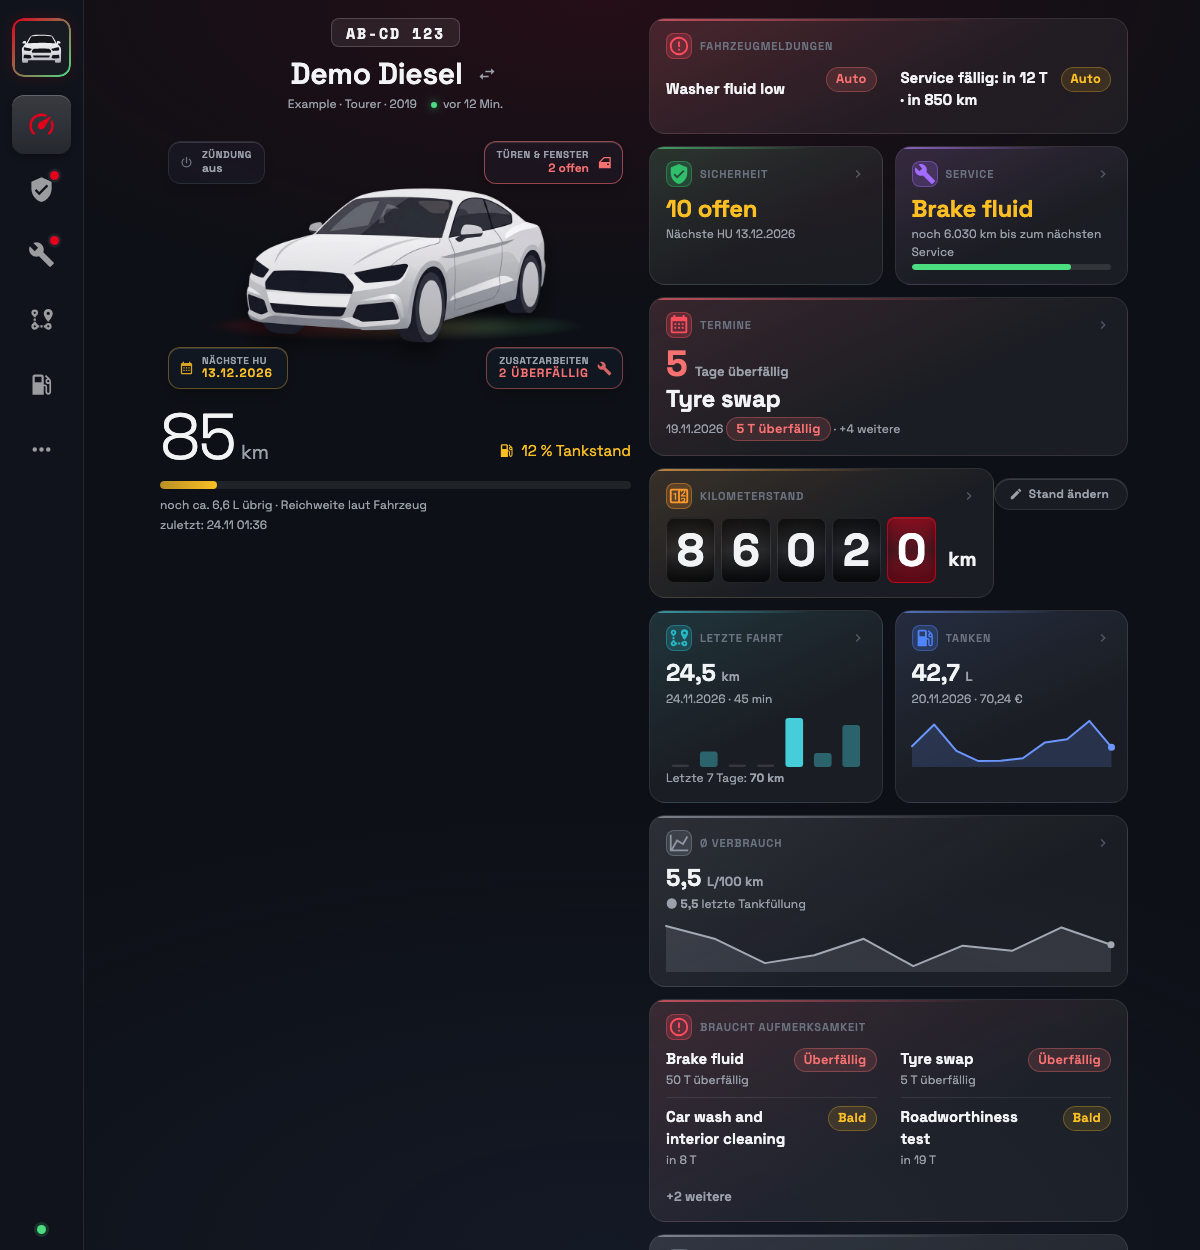
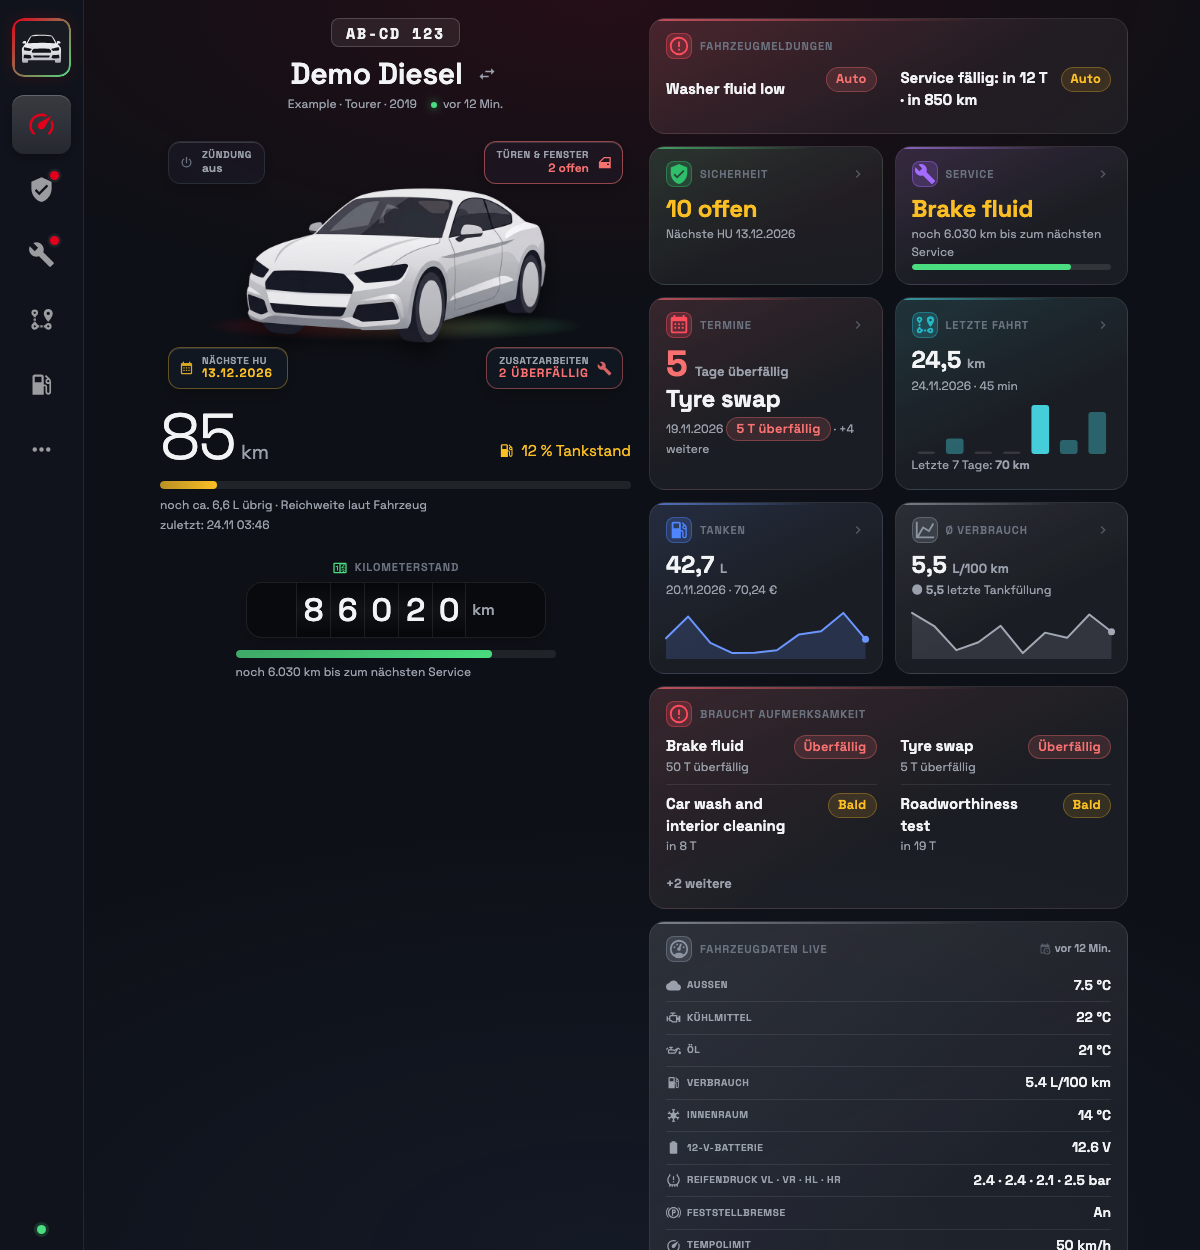
Dev 0.5.25.8: the odometer widget only shows, the plate under the car is the one place to change it
- The "Change odometer" button is gone from the odometer widget (every look); the widget has three looks (Drums, Tile, Counter box) and is off by
  default for a car with no arranged dashboard.
- The plate under the car is shown under a range as well (before it was only shown without one), so there is always one place to type the odometer.
- Fuzz tests: a 501 (text recognition not installed) is a clean refusal - the CI of the last commit failed on it.
- Docs and the dashboard pictures renewed.

diff --git a/carassistant/app/carassistant/templates/widgets/odometer.html b/carassistant/app/carassistant/templates/widgets/odometer.html
@@ -1,5 +1,5 @@
-{% from "_macros.html" import widget, odo_drum, odo_entry, odo_plate with context %}
-{% if odometer is not none and hero_range %}  {# without a reported range the odometer is the big figure under the car #}
+{% from "_macros.html" import widget, odo_drum, odo_plate with context %}
+{% if odometer is not none %}  {# the widget only SHOWS the odometer (to change it: tap the odometer on the dashboard, under the car) #}
 {# three looks, the slot's data-opt-design shows one of them (the choice is made while editing the page): drums and tile in the usual tile, the plate (the same box as under the car, without turning over) free #}
 <div class="wd-look-drums">
 {% call widget('counter', 'c3', _('f.odometer'), '/e/counters', w.size) %}
@@ -12,5 +12,4 @@
 {% endcall %}
 </div>
 <div class="wd-look-plate">{{ odo_plate(false, false) }}</div>
-{% if not (odo_from_car is defined and odo_from_car) %}{{ odo_entry() }}{% endif %}
 {% endif %}

diff --git a/carassistant/app/carassistant/templates/_tabs.html b/carassistant/app/carassistant/templates/_tabs.html
@@ -38,8 +38,9 @@
     <div class="range-sub">{% if hero_range.liters %}{{ _('hero.liters', l=fnum(units.v(hero_range.liters, hero_range.unit), 1), u=units.vol_unit(hero_range.unit)) }} · {% endif %}{{ _('hero.estimated') if hero_range.estimated else _('hero.range_src') }}</div>
     {% if hero_range.when %}<div class="range-sub range-last">{{ _('hero.last', when=fshort(hero_range.when)) }}</div>{% endif %}
   </div>
-  {% elif odometer is not none %}
-  {% set ti = tank_info if tank_info is defined else none %}
+  {% endif %}
+  {% if odometer is not none %}  {# the odometer plate: the one place to type it, turn it over (also under a range) #}
+  {% set ti = tank_info if (tank_info is defined and not hero_range) else none %}  {# the range block above already says what is in the tank #}
   <div class="odo-card">
     {{ odo_plate() }}
     {{ odo_progress() }}

diff --git a/carassistant/app/carassistant/static/pc-core.css b/carassistant/app/carassistant/static/pc-core.css
@@ -386,6 +386,7 @@ dialog.cdlg { width: min(440px, calc(100% - 28px)); }
 .odo-card .bar { margin-top: 8px; }
 
 /* odometer only: docked to the car (the glow under the car overlaps the label) and the same block gap below as everywhere */
+.range-block + .odo-card { margin: 16px 0 0; text-align: left; }  /* the plate under a range: left, like the figures above it */
 .hero-car-wrap + .odo-card { margin-top: -16px; margin-bottom: calc(var(--sp-block) - 14px); position: relative; z-index: 2; }
 .odo-t b { margin-top: 0; line-height: 1; }
 

diff --git a/tests/test_linkmap_zoom.py b/tests/test_linkmap_zoom.py
@@ -113,3 +113,31 @@ def test_the_page_carries_the_zoom_map_with_every_channel_and_phones_keep_the_ca
     ) or "\\u003cb\\u003e" in raw  # never as markup
     assert world.get("/static/linkmap_zoom.js").status_code == 200
     assert world.get("/v/1/plugins/connections/zoom.json").json()["version"] == model["version"]
+
+
+def test_the_pages_of_an_integration_are_channels_in_a_group_of_their_own(world):
+    with db.tx() as conn:
+        _plugin(conn, "p-one", "Plugin One")
+        conn.execute(
+            "INSERT INTO vehicle_addons(vehicle_id, kind, addon_id, manifest, status, active, created_at) VALUES(1, 'integration', 'my-int', ?, 'configured', 1, datetime('now'))",
+            (
+                json.dumps(
+                    {
+                        "id": "my-int",
+                        "kind": "integration",
+                        "name": "My Integration",
+                        "pages": [{"id": "entries", "title": "Entries", "fields": []}, {"id": "other", "title": "Other", "fields": []}],
+                    }
+                ),
+            ),
+        )
+        _call(conn, "p-one", "POST", "modules/my-int/entries", {"rows": [{"a": 1}]})
+        body = linkmap_zoom.model(conn, 1)
+    group = next(g for g in body["groups"] if g["area"] == "int:my-int")
+    assert group["name"] == "My Integration" and group["integration"] is True
+    by_key = {c["key"]: c for c in group["channels"]}
+    assert (
+        by_key["int:my-int/entries"]["state"] == "live" and by_key["int:my-int/other"]["state"] == "open"
+    )  # one page is used, the other is open
+    d = world.get("/v/1/plugins/connections/detail.json?kind=group&id=int:my-int").json()
+    assert d["title"] == "My Integration" and d["connections"][0]["channel_label"] == "Entries" and d["signals"][0]["name"] == "entries"

diff --git a/tests/test_api_fuzz.py b/tests/test_api_fuzz.py
@@ -58,12 +58,12 @@ def test_the_plugin_api_never_answers_with_a_server_error(api):
             headers={**hdr(token), "Content-Type": "application/json"},
             content=raw.encode("utf-8", "surrogatepass"),
         )
-        if r.status_code >= 500:
+        if r.status_code >= 500 and r.status_code != 501:
             bad.append(f"POST {what} {raw[:120]} -> {r.status_code}")
     for what in gets:
         for _ in range(3):
             r = api.get(f"/api/v1/vehicles/1/{what}".rstrip("/") if what else "/api/v1/vehicles", headers=hdr(token))
-            if r.status_code >= 500:
+            if r.status_code >= 500 and r.status_code != 501:
                 bad.append(f"GET {what} -> {r.status_code}")
     for path in (
         "/api/v1/vehicles/999999/data",
@@ -74,12 +74,12 @@ def test_the_plugin_api_never_answers_with_a_server_error(api):
     ):
         for method in ("get", "post"):
             r = api.get(path, headers=hdr(token)) if method == "get" else api.post(path, headers=hdr(token), json={})
-            if r.status_code >= 500:
+            if r.status_code >= 500 and r.status_code != 501:
                 bad.append(f"{method.upper()} {path} -> {r.status_code}")
     for content in (b"", b"not json", b"{", b"\xff\xfe\x00", b"[" * 5000, b'{"a":' * 500):
         for what in ("data", "track", "events", "signals"):
             r = api.post(f"/api/v1/vehicles/1/{what}", headers={**hdr(token), "Content-Type": "application/json"}, content=content)
-            if r.status_code >= 500:
+            if r.status_code >= 500 and r.status_code != 501:
                 bad.append(f"POST {what} raw {content[:20]!r} -> {r.status_code}")
     assert not bad, "\n".join(bad[:15])
     page = api.get("/v/1/plugins/connections")  # whatever came in, the pages that show it still work

diff --git a/tests/test_receipt.py b/tests/test_receipt.py
@@ -359,14 +359,17 @@ def test_the_plate_is_fixed_while_a_plugin_reports_the_odometer_and_the_hidden_s
         conn.execute("INSERT INTO odometer(vehicle_id, date, odometer_km, source) VALUES (?, '2026-01-01', 12345, 'manual')", (vid,))
     page = client.get(f"/v/{slug(vid)}").text
     assert (
-        'class="odo-face odo-back" inert' in page and "odo-static" not in page
-    )  # typed by hand: it turns over, the back is not reachable by Tab
+        'class="odo-face odo-back" inert' in page and 'class="odo-flip"' in page and page.count("odo-flip odo-static") == 1
+    )  # typed by hand: it turns over, the back is not reachable by Tab (the one plate that is static is the look of the odometer widget)
     with db.tx() as conn:
         conn.execute("INSERT INTO odometer(vehicle_id, date, odometer_km, source) VALUES (?, '2026-01-02', 12400, 'plugin')", (vid,))
     page = client.get(f"/v/{slug(vid)}").text
     assert (
-        "odo-flip odo-static" in page and "odo-face odo-back" not in page and "data-odo-open" not in page
-    )  # reported by the car: just shown
+        page.count("odo-flip odo-static") == 2
+        and 'class="odo-flip"' not in page
+        and "odo-face odo-back" not in page
+        and "data-odo-open" not in page
+    )  # reported by the car: just shown (the plate under the car and the widget look)
 
 
 # ------------------------------------------------------------------ the lower half of a cluster, the odometer on a receipt, real photos

diff --git a/tests/test_status.py b/tests/test_status.py
@@ -200,11 +200,13 @@ def test_home_shows_range_if_the_car_reports_it_else_the_odometer(client):
     assert (
         'class="odo-card"' in page and "odo-drum" in page and 'aria-label="50,000 km"' in page
     )  # no range: the odometer is the big figure ...
-    assert 'class="wd-t">Odometer' not in page  # ... and there is no second odometer widget
+    assert 'data-k="odometer"' in page and re.search(
+        r'class="wd-slot [a-z]+ off" data-k="odometer"', page
+    )  # the odometer widget is an extra look: off until it is switched on
     with db.tx() as conn:
         now = "2030-01-01T00:00:00+00:00"
         conn.execute("INSERT INTO live(vehicle_id, key, value, updated) VALUES(?, 'range_km', '540', ?)", (vid, now))
         conn.execute("INSERT INTO live(vehicle_id, key, value, updated) VALUES(?, 'fuel_level', '62', ?)", (vid, now))
     page = client.get(f"/v/{slug(vid)}").text
     assert 'class="range-km">540<' in page and "62 %" in page  # the range is the big figure with the tank level
-    assert 'class="wd-t">Odometer' in page  # the odometer moves to its widget
+    assert 'class="odo-card"' in page and "odo-drum" in page  # the plate stays under the car, below the range

diff --git a/tests/test_route_fuzz.py b/tests/test_route_fuzz.py
@@ -72,7 +72,7 @@ def test_no_route_answers_odd_forms_with_a_server_error(world):
         for _ in range(3):
             data = {rnd.choice(FORM_KEYS): rnd.choice(ODD) for _ in range(rnd.randint(0, 6))}
             r = world.post(_fill(path), data=data, headers={"Origin": "http://testserver"})
-            if r.status_code >= 500:
+            if r.status_code >= 500 and r.status_code != 501:  # 501 = a feature that is not installed (text recognition), a clean refusal
                 bad.append(f"POST {path} {str(data)[:100]} -> {r.status_code}")
     assert not bad, "\n".join(bad[:12])
 
@@ -84,7 +84,7 @@ def test_no_route_answers_odd_query_strings_with_a_server_error(world):
         for _ in range(3):
             query = "&".join(f"{rnd.choice(QUERY_KEYS)}={quote(rnd.choice(ODD))}" for _ in range(rnd.randint(0, 4)))
             r = world.get(_fill(path) + ("?" + query if query else ""))
-            if r.status_code >= 500:
+            if r.status_code >= 500 and r.status_code != 501:  # 501 = a feature that is not installed (text recognition), a clean refusal
                 bad.append(f"GET {path}?{query[:100]} -> {r.status_code}")
     assert not bad, "\n".join(bad[:12])
 

diff --git a/carassistant/app/carassistant/widgets.py b/carassistant/app/carassistant/widgets.py
@@ -52,7 +52,9 @@ REGISTRY: tuple[Widget, ...] = (
     Widget("security", "s", "security", "c2", "tab.security", "security"),
     Widget("service", "s", "wrench", "c4", "nav.service", "service"),
     Widget("appointments", "s", "calendar", "c6", "tab.appointments", "appointments"),
-    Widget("odometer", "m", "counter", "c3", "f.odometer", options=(("design", ("drums", "tile", "plate")),)),
+    Widget(
+        "odometer", "m", "counter", "c3", "f.odometer", on=False, options=(("design", ("drums", "tile", "plate")),)
+    ),  # the plate under the car is the odometer; the widget is an extra look
     Widget("trips", "s", "route", "c7", "tile.last_trip", "trips"),
     Widget("fuel", "s", "fuel", "c1", "nav.fuel", "fuel"),
     Widget("fuel_avg", "s", "chart", "c5", "tile.avg", "fuel"),

diff --git a/tests/test_widgets.py b/tests/test_widgets.py
@@ -41,7 +41,9 @@ def test_move_resize_hide_and_reset(client):
     assert 'id="wd-toggle"' in html and 'id="wd-tpl"' in html
     client.post(base, data={"reset": "1"})
     with db.tx() as conn:
-        assert [w.key for w in widgets.layout(conn, vid)] == order and all(w.on for w in widgets.layout(conn, vid))
+        assert [w.key for w in widgets.layout(conn, vid)] == order and [w.on for w in widgets.layout(conn, vid)] == [
+            w.on for w in widgets.REGISTRY
+        ]  # back to the defaults
 
 
 def test_unknown_or_broken_layout_is_ignored(client):

diff --git a/docs/guide.de.md b/docs/guide.de.md
@@ -66,7 +66,7 @@ Beide Fotos werden **auf deinem eigenen Server** gelesen (Texterkennung mit Tess
 
 **Beleg scannen.** Beim Anlegen einer Tankung nimmt *Beleg scannen* ein Foto des Tankbelegs auf (das Handy öffnet die Kamera). Das Foto wird **auf deinem eigenen Server** gelesen (Texterkennung mit Tesseract, nichts geht ins Internet) und sofort verworfen; es füllt nur das Formular: Datum, Menge, Preis je Einheit, Betrag, Name der Tankstelle, das Produkt (zum Beispiel *Super E10*) und - wenn die Tankstelle ihn aufgedruckt hat - den Kilometerstand. Die ausgefüllten Felder sind markiert; prüfe sie und speichere. Die App prüft, dass *Menge x Preis = Betrag* ergibt, findet so eine falsch gelesene Ziffer und rechnet einen fehlenden Wert aus (und sagt dir das). Ohne die Texterkennung auf dem Server gibt es den Knopf einfach nicht. Mehr unter *Schnell eintragen* weiter oben.
 
-**Kilometerstand: ein Zählwerk zum Umdrehen.** Der Kilometerstand auf dem Dashboard ist ein dunkler Kasten wie ein Zählwerk, mit seiner Beschriftung darüber: Die Ziffern laufen wie bei einem mechanischen Zähler von oben nach unten durch. Tippe irgendwo darauf, und er dreht sich zur Eingabe um, die den letzten Stand als Hinweis zeigt: Zahl tippen, oder ein Foto des Tachos aufnehmen (Kamera-Knopf) oder eins auswählen (Hochladen-Knopf). Das Foto wird wie ein Beleg auf deinem eigenen Server gelesen und nie gespeichert. Die gefundene Zahl ist nur ein Vorschlag: Sie wird mit dem letzten Stand verglichen, und es erscheint eine Warnung, wenn sie niedriger oder viel höher ist. Gespeichert wird erst mit dem Haken; ein Tipp irgendwo anders dreht den Kasten zurück. Solange ein Plugin den Kilometerstand meldet, steht der Kasten fest - es gibt nichts zu ändern. Bei einem Auto ohne Stand bietet das Dashboard dieselbe Eingabe für den ersten an. Das Widget *Kilometerstand* hat drei Darstellungen zur Auswahl, in seinen Einstellungen unter *Seite bearbeiten*: *Walzen*, *Kachel* und *Zählwerk* (derselbe Kasten ohne Umdrehen, der sich der Breite seines Platzes anpasst).
+**Kilometerstand: ein Zählwerk zum Umdrehen.** Der Kilometerstand auf dem Dashboard ist ein dunkler Kasten wie ein Zählwerk, mit seiner Beschriftung darüber: Die Ziffern laufen wie bei einem mechanischen Zähler von oben nach unten durch. Tippe irgendwo darauf, und er dreht sich zur Eingabe um, die den letzten Stand als Hinweis zeigt: Zahl tippen, oder ein Foto des Tachos aufnehmen (Kamera-Knopf) oder eins auswählen (Hochladen-Knopf). Das Foto wird wie ein Beleg auf deinem eigenen Server gelesen und nie gespeichert. Die gefundene Zahl ist nur ein Vorschlag: Sie wird mit dem letzten Stand verglichen, und es erscheint eine Warnung, wenn sie niedriger oder viel höher ist. Gespeichert wird erst mit dem Haken; ein Tipp irgendwo anders dreht den Kasten zurück. Solange ein Plugin den Kilometerstand meldet, steht der Kasten fest - es gibt nichts zu ändern. Bei einem Auto ohne Stand bietet das Dashboard dieselbe Eingabe für den ersten an. Das Zählwerk sitzt unter dem Auto - auch unter einer Reichweite - und ist die eine Stelle, um den Kilometerstand zu ändern. Das Widget *Kilometerstand* (standardmäßig aus, einschalten unter *Seite bearbeiten*) **zeigt** den Stand nur - es hat keine eigene Eingabe - in drei Darstellungen zur Auswahl, in seinen Einstellungen: *Walzen*, *Kachel* und *Zählwerk* (derselbe Kasten ohne Umdrehen, der sich der Breite seines Platzes anpasst).
 
 **Ein Kilometerstand, der rückwärts läuft.** Eine Zahl unter dem letzten Stand oder weit darüber (mehr als 100.000 km) wird nicht gespeichert, bevor du sie bestätigst - die Seite sagt warum und bietet *Trotzdem speichern* an. Die *Kilometerstände* im Fahrzeugpass (der Link *Alle Stände* auf der Rückseite des Kastens führt dorthin) listen jeden Kilometerstand des Autos - Stände, Tankungen, Service-Einträge, Umbauten und Fahrten - und markieren die, die nicht zu den anderen passen (zum Beispiel markiert 52.000, 520.000, 52.500 die 520.000). Ein einfacher Stand lässt sich dort löschen; bei den anderen öffnet der Stift den Eintrag. Die Liste scrollt nach etwa zehn Zeilen und klappt von selbst auf, wenn etwas nicht passt. Passt etwas nicht, sagt das Dashboard es, denn ein falscher Stand bringt Verbrauch, Termine und Fahrten durcheinander - auch die, die davor eingetragen wurden.
 

diff --git a/docs/guide.md b/docs/guide.md
@@ -66,7 +66,7 @@ Both photos are read **on your own server** (text recognition with Tesseract, no
 
 **Scan a receipt.** When you add a fill-up, *Scan receipt* takes a photo of the fuel receipt (the phone opens its camera). The photo is read **on your own server** (text recognition with Tesseract, nothing goes online) and is thrown away at once; it only fills in the form: date, amount, price per unit, total, station name, the product (for example *Super E10*) and - when the station printed it - the odometer. The fields it filled are marked; check them and save. The app checks that *amount x price = total*, finds a misread digit that way and calculates one missing value (and tells you when it did). Without the text recognition on the server the button is simply not there. More in *Quick entry* above.
 
-**Odometer: a counter box you can turn over.** The odometer on the dashboard is a dark counter box with its label above it: the digits roll down through it like a mechanical counter. Tap anywhere on it and it turns over to the entry, which shows the last reading as a hint: type the number, or take a photo of the cluster (camera button) or pick one (upload button). The photo is read on your own server, like a receipt, and never stored. The number it finds is only a suggestion: it is compared with the last reading and a warning appears when it is lower or far higher. Nothing is saved until you press the check mark; a tap anywhere else turns the box back. While a plugin reports the odometer the box is fixed - there is nothing to edit. On a car without any reading yet the dashboard offers the same entry for the first one. The *Odometer* widget has three looks to choose from in its settings under *Edit page*: *Drums*, *Tile* and *Counter box* (the same box without turning over, following the width of its slot).
+**Odometer: a counter box you can turn over.** The odometer on the dashboard is a dark counter box with its label above it: the digits roll down through it like a mechanical counter. Tap anywhere on it and it turns over to the entry, which shows the last reading as a hint: type the number, or take a photo of the cluster (camera button) or pick one (upload button). The photo is read on your own server, like a receipt, and never stored. The number it finds is only a suggestion: it is compared with the last reading and a warning appears when it is lower or far higher. Nothing is saved until you press the check mark; a tap anywhere else turns the box back. While a plugin reports the odometer the box is fixed - there is nothing to edit. On a car without any reading yet the dashboard offers the same entry for the first one. The plate sits under the car - also under a range - and is the one place to change the odometer. The *Odometer* widget (off by default, switch it on under *Edit page*) only **shows** the figure - it has no entry of its own - in three looks to choose from in its settings: *Drums*, *Tile* and *Counter box* (the same box without turning over, following the width of its slot).
 
 **An odometer that runs backwards.** A number below the last reading, or far above it (more than 100,000 km), is not saved before you confirm it - the page says why and offers *Save anyway*. *Odometer readings* in the vehicle passport (the *All readings* link on the back of the counter box leads there) lists every odometer value of the car - readings, fill-ups, service entries, modifications and trips - and marks the ones that do not fit the others (for example 52,000, 520,000, 52,500 marks the 520,000). A plain reading can be deleted there; for the others the pencil opens the entry. The list scrolls after about ten rows and opens by itself when something does not fit. When something does not fit, the dashboard says so, because a wrong reading throws off consumption, due dates and trips - also the ones entered before it.
 
